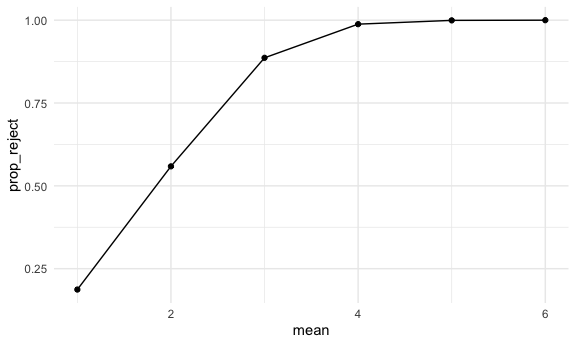
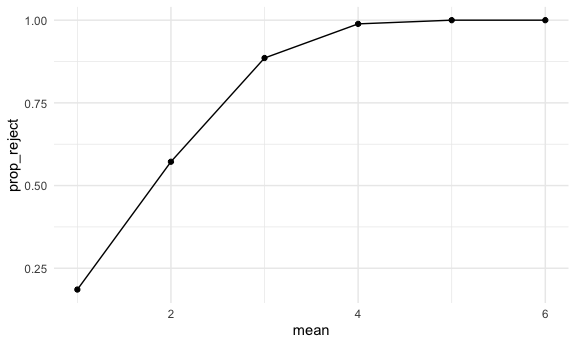
apply pull function to prop test, simply function for problem 3

diff --git a/p8105_hw5_jl2361.md b/p8105_hw5_jl2361.md
@@ -1,7 +1,7 @@
 P8105 HW5
 ================
 Jennifer Lee (UNI: jl2361)
-2022-11-08
+2022-11-10
 
 # Problem 1
 
@@ -55,7 +55,7 @@ of Tulsa, so we fix these data entry errors.
 
 Next, we create a dataframe summarizing the number of total homicides by
 city and state, in addition to the number of unsolved homicides
-categroized by “Closed without arrest” or “Open/No arrest.”
+categorized by “Closed without arrest” or “Open/No arrest.”
 
 ``` r
 number_homicide_df = 
@@ -132,45 +132,31 @@ homicide %>%
 ## Using prop.test
 
 We then create a `myproptest` function to apply the prop.test function
-to estimate the proportio of homicides that are unsolved, apply the
+to estimate the proportion of homicides that are unsolved, apply the
 broom::tidy, and save the output (estimated proportion and upper and
-lower bounds of the 95% CI) as a tibble. We use `myproptest` for the
-city of Baltimore, MD and note that the filtered dataframe needs to be
-converted to a list of vectors prior to applying `myproptest`.
+lower bounds of the 95% CI). We use `myproptest` for the city of
+Baltimore, MD and make use of the `pull` function.
 
 ``` r
-myproptest = function(x) {
+myproptest = function(number_unsolved_homicide, number_homicide) {
   
-    estimate = 
-      prop.test(x[[2]], x[[3]]) %>% 
-      broom::tidy() %>%
-      select(estimate)
-    conf_low = 
-      prop.test(x[[2]], x[[3]]) %>% 
-      broom::tidy() %>%
-      select(conf.low)
-    conf_high = 
-      prop.test(x[[2]], x[[3]]) %>% 
-      broom::tidy() %>%
-      select(conf.high)
-
-tibble(
-  estimate, 
-  conf_low,
-  conf_high) %>%
-  rename(
-      conf_low = conf.low,
-      conf_high = conf.high)
-
-  }
+    prop.test(number_unsolved_homicide, number_homicide, p = 0.5, alternative = "two.sided") %>%
+    broom::tidy() %>%
+    select(estimate, conf.low, conf.high)
+  
+}
 
 baltimore = 
   homicide %>% 
-    filter(city_state %in% c("Baltimore, MD")) %>% 
-  as.list() %>%
-  myproptest()
+    filter(city_state %in% c("Baltimore, MD"))
 
-baltimore
+baltimore_results =
+  myproptest(pull(baltimore, number_unsolved_homicide), pull(baltimore, number_homicide)) %>%
+  rename(
+    conf_low = conf.low,
+    conf_high = conf.high)
+
+baltimore_results
 ```
 
     ## # A tibble: 1 × 3
@@ -246,8 +232,8 @@ this `sim_df`:
 
 x∼Normal\[μ,σ\]
 
-We also create a `sim_ttest` function to map to `sim_df` and save μ̂ and
-the p-value arising from a test of H:μ=0 using α=0.05
+In addition, we create a `sim_ttest` function to map to `sim_df` and
+save μ̂ and the p-value arising from a test of H:μ=0 using α=0.05
 
 ``` r
 sim_ttest = function(n = 30, mean, sigma = 5) {
@@ -255,23 +241,10 @@ sim_ttest = function(n = 30, mean, sigma = 5) {
   sim_data = tibble(
     x = rnorm(n = 30, mean, sd = sigma),
   )
-  mu_hat = 
     sim_data %>% 
     t.test(mu = 0, conf.level = 0.95) %>%
     broom::tidy() %>%
-    select(estimate)
-  p_value =
-    sim_data %>% 
-    t.test(mu = 0, conf.level = 0.95) %>%
-    broom::tidy() %>%
-    select(p.value)
-  
-  tibble(
-    mu_hat, 
-    p_value) %>%
-    rename(
-      mu_hat = estimate,
-      p_value = p.value)
+    select(estimate, p.value)
 
 }
 
@@ -281,7 +254,10 @@ sim_df =
     iter = 1:5000) %>% 
   mutate(
     ttest_df = map(.x = mean, ~ sim_ttest(mean = .x))) %>% 
-  unnest(ttest_df)
+  unnest(ttest_df) %>%
+  rename(
+      mu_hat = estimate,
+      p_value = p.value)
 
 sim_df
 ```
@@ -289,16 +265,16 @@ sim_df
     ## # A tibble: 5,000 × 4
     ##     mean  iter mu_hat p_value
     ##    <dbl> <int>  <dbl>   <dbl>
-    ##  1     0     1  0.604   0.565
-    ##  2     0     2  0.644   0.540
-    ##  3     0     3 -0.487   0.643
-    ##  4     0     4  0.218   0.762
-    ##  5     0     5  0.636   0.523
-    ##  6     0     6  0.121   0.906
-    ##  7     0     7  0.695   0.339
-    ##  8     0     8 -1.20    0.116
-    ##  9     0     9  0.711   0.534
-    ## 10     0    10 -0.890   0.371
+    ##  1     0     1  2.05   0.0267
+    ##  2     0     2 -1.04   0.234 
+    ##  3     0     3  0.596  0.392 
+    ##  4     0     4  0.403  0.650 
+    ##  5     0     5  1.19   0.166 
+    ##  6     0     6  0.634  0.413 
+    ##  7     0     7 -0.931  0.280 
+    ##  8     0     8  0.973  0.301 
+    ##  9     0     9 -0.584  0.541 
+    ## 10     0    10 -0.404  0.699 
     ## # … with 4,990 more rows
 
 We repeat the above for μ={1,2,3,4,5,6}.
@@ -310,32 +286,35 @@ sim_df2 =
     iter = 1:5000) %>% 
   mutate(
     ttest_df = map(.x = mean, ~ sim_ttest(mean = .x))) %>% 
-  unnest(ttest_df)
+  unnest(ttest_df) %>%
+  rename(
+      mu_hat = estimate,
+      p_value = p.value)
 
 sim_df2
 ```
 
     ## # A tibble: 30,000 × 4
-    ##     mean  iter mu_hat p_value
-    ##    <dbl> <int>  <dbl>   <dbl>
-    ##  1     1     1  1.01    0.244
-    ##  2     1     2  1.44    0.149
-    ##  3     1     3  0.448   0.637
-    ##  4     1     4  1.55    0.114
-    ##  5     1     5  0.255   0.802
-    ##  6     1     6  1.58    0.109
-    ##  7     1     7 -0.878   0.307
-    ##  8     1     8  1.07    0.198
-    ##  9     1     9  1.00    0.340
-    ## 10     1    10  1.03    0.260
+    ##     mean  iter  mu_hat p_value
+    ##    <dbl> <int>   <dbl>   <dbl>
+    ##  1     1     1  1.11    0.160 
+    ##  2     1     2  0.575   0.532 
+    ##  3     1     3  1.03    0.218 
+    ##  4     1     4 -0.224   0.824 
+    ##  5     1     5  0.502   0.477 
+    ##  6     1     6  1.91    0.0128
+    ##  7     1     7  0.529   0.631 
+    ##  8     1     8  1.08    0.251 
+    ##  9     1     9 -0.0738  0.917 
+    ## 10     1    10  0.634   0.509 
     ## # … with 29,990 more rows
 
 ## Plots
 
 Here is a plot showing the proportion of times the null was rejected
-(the power of the test) on the y axis and the true value of μ on the x
-axis. As the effect size gets bigger, we see that power increases as
-well.
+(the power of the test assuming a 5% level of significance) on the y
+axis and the true value of μ on the x axis. As the effect size gets
+bigger, we see that power increases as well.
 
 ``` r
 sim_df2 %>% 
@@ -360,7 +339,8 @@ sim_df2 %>%
 Next, here is a plot showing the average estimate of μ̂ on the y axis and
 the true value of μ on the x axis. There is also a second plot (right)
 showing the average estimate of μ̂ only in samples for which the null was
-rejected on the y axis and the true value of μ on the x axis.
+rejected (assuming a 5% level of significance) on the y axis and the
+true value of μ on the x axis.
 
 The sample average of μ̂ across test for which the null is rejected is
 approximately equal to the true value of μ. As the error variance
